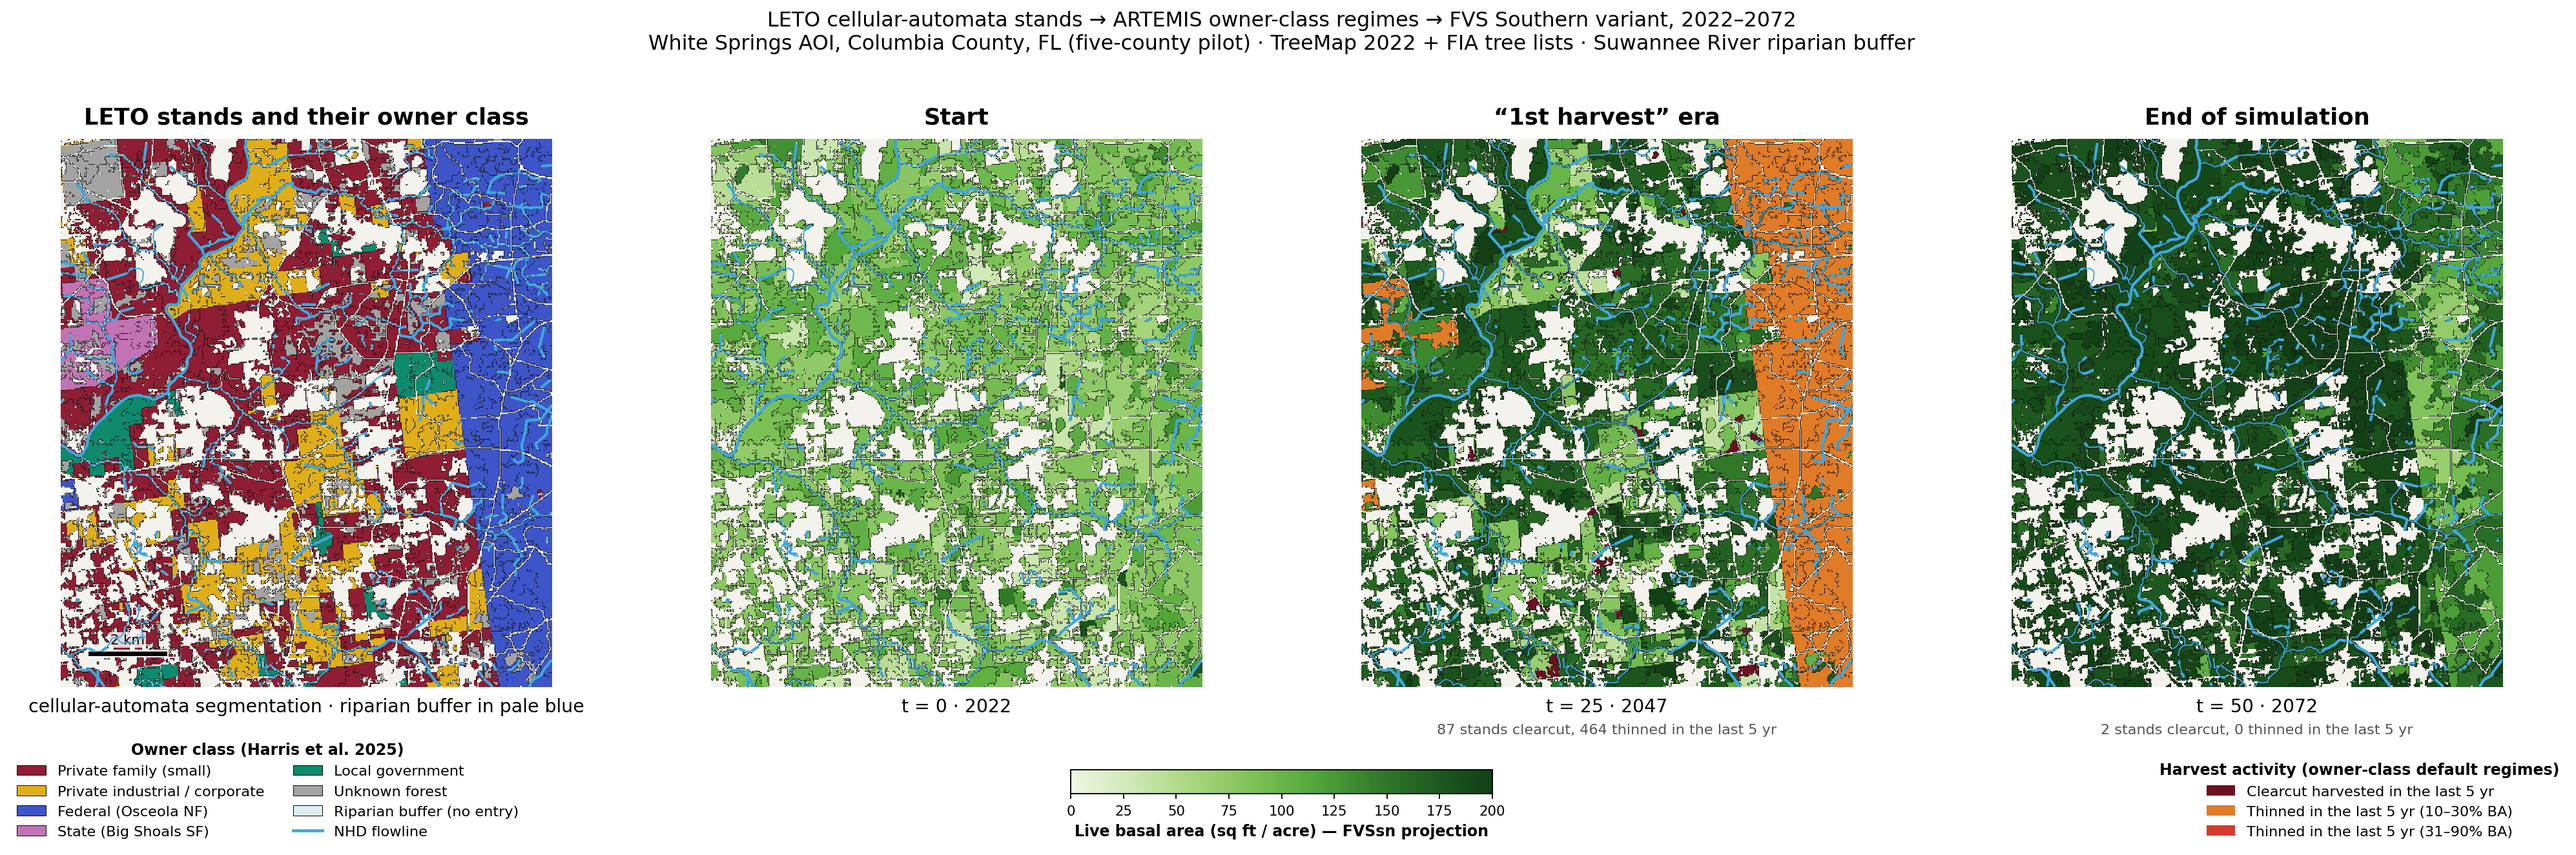
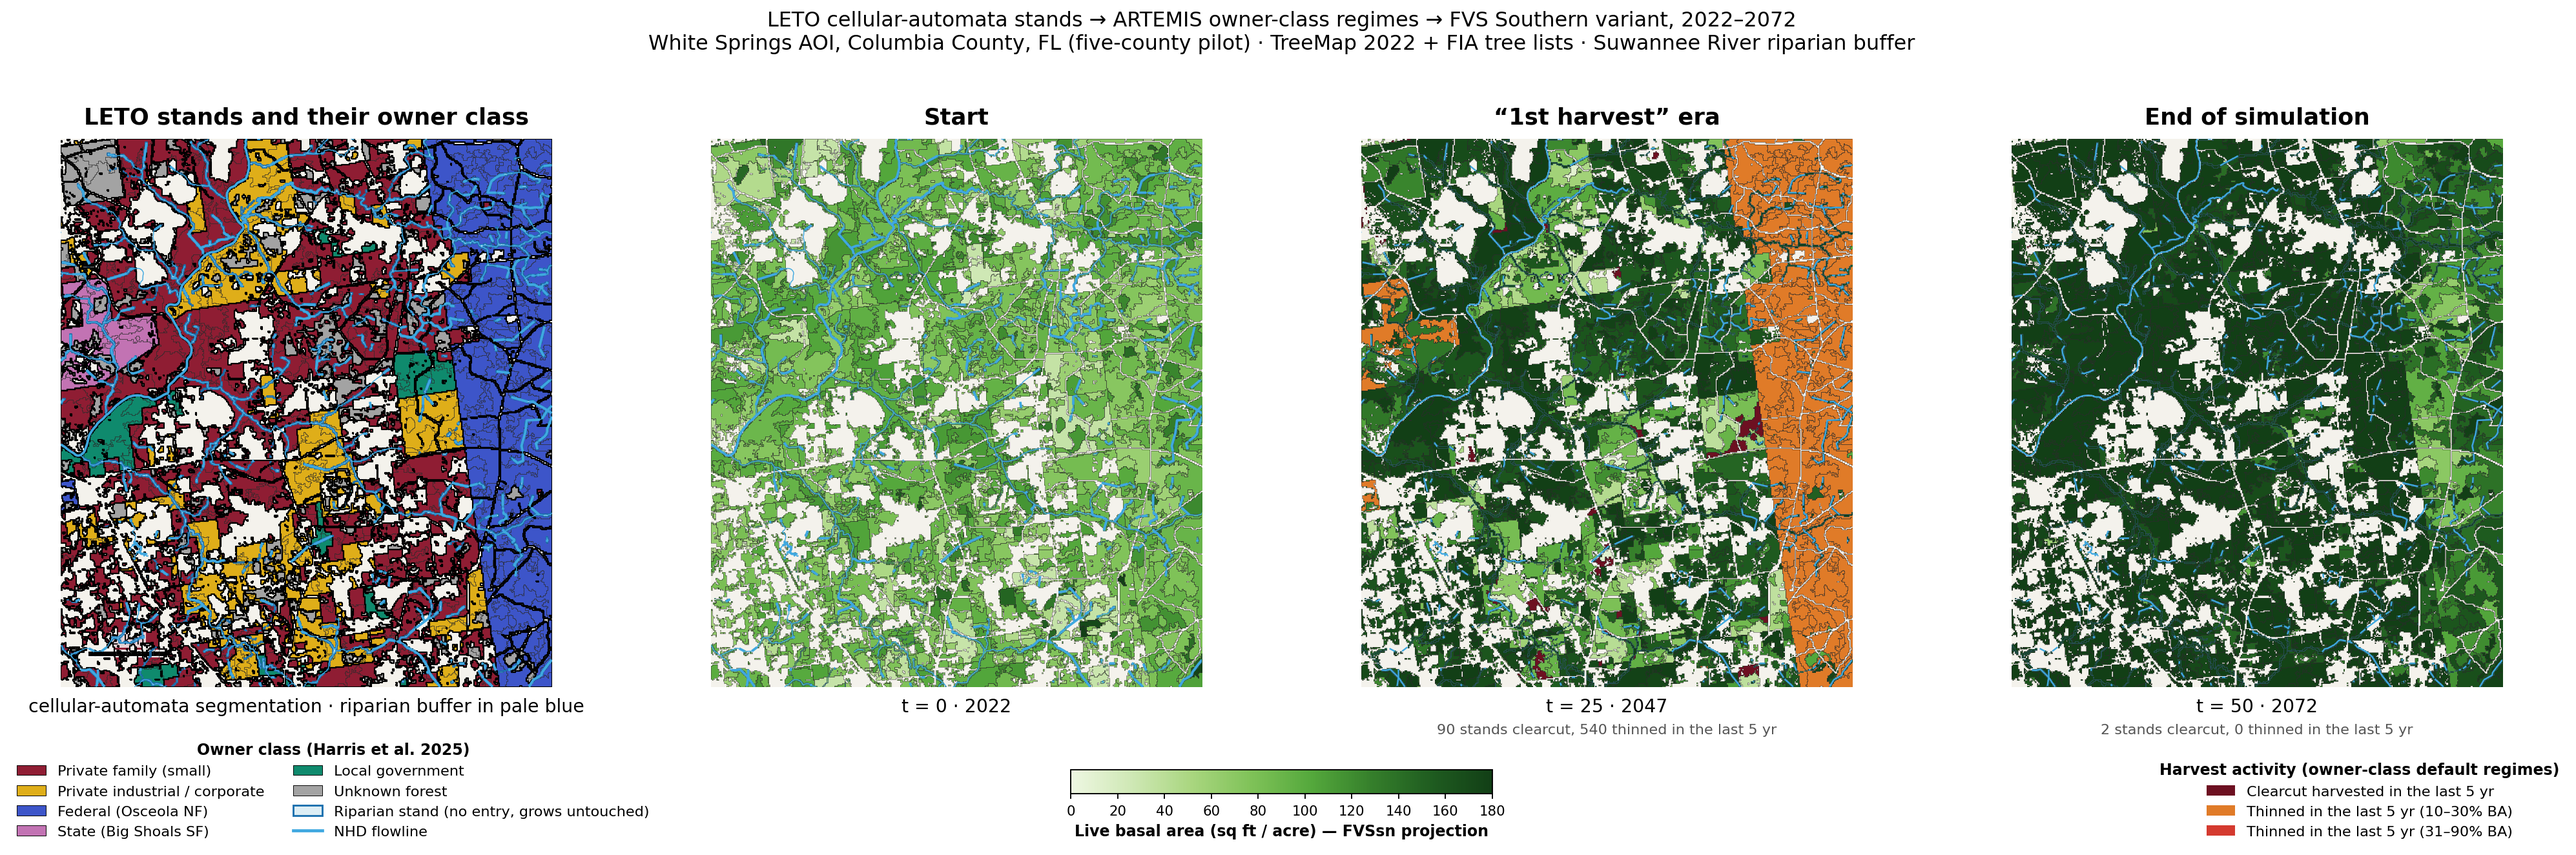
Re-render figure from the tighter-convergence run with cleaned boundaries
The refined segmentation (4,279 parent stands, 6,944 management units, all
runnable through FVSsn with zero failures) replaces the first run's outputs.
Rendering: hairline vector stand outlines replace the per-pixel boundary mask;
the riparian corridor is outlined once as a dissolved footprint (bright blue on
the ownership panel, muted blue-gray on projection panels) and keeps its
projected BA fill everywhere so untouched riparian growth stays visible; the
minor stream network draws only on the first two panels. QA tables and README
counts updated to the new run.

Claude-Session: https://claude.ai/code/session_01DskEP7p3LhSHseiLzt7x4R

diff --git a/experiments/2026-08-24_leto-ca-forest-viz/05_figure.py b/experiments/2026-08-24_leto-ca-forest-viz/05_figure.py
@@ -68,7 +68,7 @@ HARVEST_COLORS = {
 BACKGROUND = "#f4f2ec"   # non-forest / outside TreeMap
 RIPARIAN_TINT = "#ddeef5"
 STREAM_COLOR = "#3fa8e0"
-BA_MAX = 200.0           # sq ft/acre at the dark end of the ramp (p90 at 2072 ≈ 210)
+BA_MAX = 180.0           # sq ft/acre at the dark end of the ramp (p90 at 2072 ≈ 210)
 RIVER_FCODES = (55800, 46006)  # channels drawn as lines; all rules still buffer
 
 BA_RAMP = ["#eef7e2", "#cfe8b5", "#a9d67f", "#7fc258", "#54a83c",
@@ -171,6 +171,9 @@ def main() -> None:
     units = units.merge(mu[["MU_ID", "OWNER_CLASS", "MGMT_CLASS"]], on="MU_ID")
     upland = units[units["MGMT_CLASS"] == 0]
     rip_units = units[units["MGMT_CLASS"] == 1]
+    # One corridor outline, not 1,523 fragment outlines: the dissolved
+    # riparian footprint reads as its own stand without webbing the map.
+    rip_corridor = rip_units.dissolve()
     owner_bounds = units.dissolve(by="OWNER_CLASS")
     print(f"{len(units):,} unit polygons ({len(rip_units):,} riparian)")
 
@@ -192,24 +195,33 @@ def main() -> None:
     fig, axes = plt.subplots(1, 4, figsize=(24, 7.8), dpi=170)
     fig.patch.set_facecolor("white")
 
-    def finish(ax, img, title, subtitle, owner_edges=False):
+    def finish(ax, img, title, subtitle, owner_edges=False, minor_streams=True):
         ax.imshow(img, extent=extent, interpolation="nearest")
         # Vector stand borders: hairline anti-aliased outlines instead of a
         # per-pixel boundary mask (which reads as salt-and-pepper at this
         # stand density).
         upland.boundary.plot(ax=ax, linewidth=0.25, color=STAND_EDGE,
                              alpha=0.8, zorder=3)
-        rip_units.boundary.plot(ax=ax, linewidth=0.7, color=RIPARIAN_EDGE,
-                                zorder=4)
+        # The riparian corridor is its own stand: a muted blue-gray hairline
+        # marks it without webbing the map (the buffer follows the entire
+        # dendritic network, so a bright/thick outline overwhelms the fill).
+        rip_lw, rip_color, rip_alpha = ((0.7, RIPARIAN_EDGE, 1.0) if owner_edges
+                                        else (0.35, "#2e5f7a", 0.7))
+        rip_corridor.boundary.plot(ax=ax, linewidth=rip_lw, color=rip_color,
+                                   alpha=rip_alpha, zorder=4)
         if owner_edges:
             owner_bounds.boundary.plot(ax=ax, linewidth=0.9, color=OWNER_EDGE,
                                        zorder=5)
         river = stream[stream["fcode"] == 55800]
         peren = stream[stream["fcode"] != 55800]
         if len(river):
-            river.plot(ax=ax, color=STREAM_COLOR, linewidth=1.8, zorder=6)
-        if len(peren):
-            peren.plot(ax=ax, color=STREAM_COLOR, linewidth=0.7, zorder=6)
+            river.plot(ax=ax, color=STREAM_COLOR,
+                       linewidth=1.6 if minor_streams else 1.0, zorder=6)
+        # The minor perennial network is context on the ownership/start
+        # panels; on the projection panels it would cover the very riparian
+        # growth the corridor outline exists to show.
+        if minor_streams and len(peren):
+            peren.plot(ax=ax, color=STREAM_COLOR, linewidth=0.6, zorder=6)
         ax.set_xlim(extent[0], extent[1])
         ax.set_ylim(extent[2], extent[3])
         ax.set_title(title, fontsize=15, fontweight="bold", pad=10)
@@ -252,7 +264,8 @@ def main() -> None:
         # their own stands, growing untouched; the blue outline identifies them.
         img = lookup_image(mu_labels, vals, default_rgb)
         finish(axes[i + 1], img, ba_titles[i],
-               f"t = {year - INV_YEAR} · {year}")
+               f"t = {year - INV_YEAR} · {year}",
+               minor_streams=(year == INV_YEAR))
         if year > INV_YEAR:
             n_cc = int((hc == "clearcut").sum())
             n_th = int(hc.isin(["thin_light", "thin_heavy"]).sum())

diff --git a/experiments/2026-08-24_leto-ca-forest-viz/README.md b/experiments/2026-08-24_leto-ca-forest-viz/README.md
@@ -21,8 +21,9 @@ data and the real methodology end to end:
   minimizing the weighted attribute cost (FORTYPCD .30 / STDAGE .25 / BALIVE .20 /
   QMD .15 / TPA .10, shared-edge bonus 0.1, z-clip 4), ownership hard boundaries,
   5-acre minimum / 300-acre maximum, similar-stand merge (≤10 yr age, same type),
-  riparian split. Converged in 12 iterations → **4,208 parent stands → 6,685
-  management units** (1,454 riparian).
+  riparian split. LETO ships 40 iterations / 1% convergence; this run tightens
+  that to 0.1% (cap 100), settling at iteration 40 with 0.096% of cells still
+  moving → **4,279 parent stands → 6,944 management units** (1,523 riparian).
 - **Riparian buffer** — EPA NHDPlus 2022 flowlines (`FL_5_Co_Streams.zip`) buffered
   by LETO's per-FCode first-pass rules (perennial 75 ft, intermittent/unclassified
   35 ft; the 55800 artificial-path channel of the Suwannee at the perennial
@@ -42,8 +43,8 @@ data and the real methodology end to end:
 - **Growth model** — the real FVS Southern (SN) variant, compiled from the USDA
   `ForestVegetationSimulator` sources (gfortran, `bin/CMakeLists.txt` with the
   NVEL submodule) in this container; runs are keyfile-driven with SQLite DB input
-  and `FVS_Summary2` output. All 6,685 management units were runnable and were projected
-  2022→2072 in ten 5-year cycles (678,292 weighted tree records; zero failed runs).
+  and `FVS_Summary2` output. All 6,944 management units were runnable and were projected
+  2022→2072 in ten 5-year cycles (zero failed runs).
 - **Harvest activities** — the deterministic owner-class **default** prescriptions
   from `config/management_regimes.yaml`, resolved by
   `pipeline/s3_management/regime_assignment.assign_prescription` (age-based entry
@@ -92,8 +93,18 @@ set `FVSSN_BIN` to a compiled FVSsn binary. Intermediate data lands in `work/`
 
 - Owner-class colors are anchored to the mockup (family red, industrial yellow,
   federal blue, state pink) and CVD-separation checked; unknown forest is the
-  neutral gray by convention. Black hairlines are management-unit boundaries.
-- BA panels use a single-hue green ramp, 0–160 sq ft/ac, painted from each unit's
+  neutral gray by convention.
+- Stand boundaries are vectorized polygon outlines (hairline dark gray), with a
+  heavier black owner-class boundary on the ownership panel. The white linear
+  corridors inside the forest are TreeMap's real non-forest pixels — roads and
+  cleared rights-of-way — not a rendering artifact.
+- Riparian management units are their own stands: pale-blue fill on the
+  ownership panel to show the buffer, and on every BA panel their own projected
+  basal area with a muted blue corridor outline — watch them stay dark
+  (untouched, still growing) through the harvested matrix at t=25. The minor
+  perennial stream network is drawn only on the first two panels so it does not
+  cover that corridor growth; the Suwannee channel stays on all panels.
+- BA panels use a single-hue green ramp, 0–180 sq ft/ac, painted from each unit's
   post-removal FVS_Summary2 basal area. Units whose donors carried no live trees
   (nonstocked) hold their TreeMap BALIVE.
 - Harvest overlay classes on t=25/t=50: BA removal fraction in the preceding
